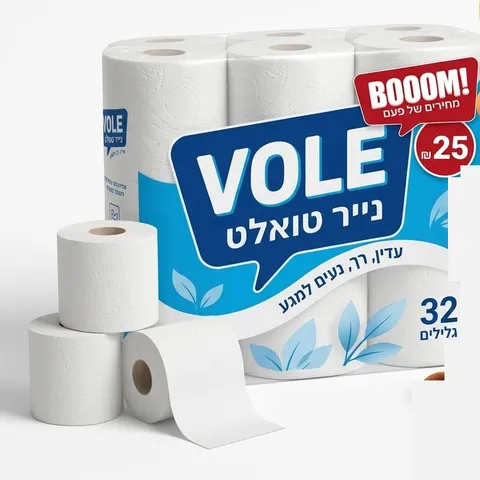
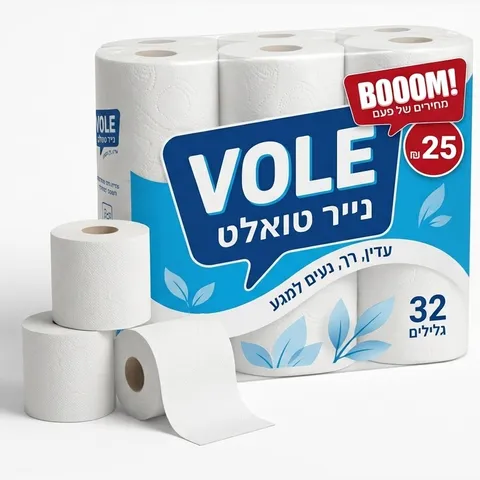
BOOOM : nouvelle photo du papier toilette Vole (sans Hoppy), produit ajouté en base
Claude-Session: https://claude.ai/code/session_01HjyNE8jb2CVL8HhFoocmFa

diff --git a/livraison/coursier.html b/livraison/coursier.html
@@ -53,9 +53,9 @@
       window.addEventListener("load", function () { if (first) later(); });
     })();
   </script>
-  <script src="coursier-lang.js?v=202611101517"></script>
+  <script src="coursier-lang.js?v=202611101633"></script>
   <link rel="stylesheet" href="https://cdnjs.cloudflare.com/ajax/libs/leaflet/1.9.4/leaflet.min.css" />
-  <link rel="stylesheet" href="styles.css?v=202611101517" />
+  <link rel="stylesheet" href="styles.css?v=202611101633" />
 <style id="splashCss">#splash{position:fixed;inset:0;z-index:99999;display:flex;flex-direction:column;align-items:center;justify-content:center;gap:18px;background:#0F1F3D;color:#fff;transition:opacity .35s ease}#splash.out{opacity:0;pointer-events:none}#splash svg{width:min(58vw,300px);height:auto;display:block}#splash span{font:700 16px/1 Rubik,-apple-system,Arial,sans-serif;letter-spacing:.42em;margin-inline-start:.42em;opacity:.92}</style>
 </head>
 <body>
@@ -297,14 +297,14 @@
 
 <script src="https://cdnjs.cloudflare.com/ajax/libs/leaflet/1.9.4/leaflet.min.js"></script>
 <script src="https://cdnjs.cloudflare.com/ajax/libs/qrcodejs/1.0.0/qrcode.min.js"></script>
-<script src="config.js?v=202611101517"></script>
-<script src="i18n.js?v=202611101517"></script>
-<script src="pricing.js?v=202611101517"></script>
-<script src="store.js?v=202611101517"></script>
-<script src="chat.js?v=202611101517"></script>
-<script src="common.js?v=202611101517"></script>
-<script src="badge.js?v=202611101517"></script>
-<script src="coursier.js?v=202611101517"></script>
+<script src="config.js?v=202611101633"></script>
+<script src="i18n.js?v=202611101633"></script>
+<script src="pricing.js?v=202611101633"></script>
+<script src="store.js?v=202611101633"></script>
+<script src="chat.js?v=202611101633"></script>
+<script src="common.js?v=202611101633"></script>
+<script src="badge.js?v=202611101633"></script>
+<script src="coursier.js?v=202611101633"></script>
 <script>(function(){var s=document.getElementById("splash");if(!s)return;var t0=Date.now();function off(){var w=Math.max(0,650-(Date.now()-t0));setTimeout(function(){s.classList.add("out");setTimeout(function(){s.remove()},400)},w)}if(document.readyState==="complete")off();else addEventListener("load",off);setTimeout(off,3500)})();</script>
 </body>
 </html>

diff --git a/livraison/admin.html b/livraison/admin.html
@@ -54,7 +54,7 @@
       window.addEventListener("load", function () { if (first) later(); });
     })();
   </script>
-  <link rel="stylesheet" href="styles.css?v=202611101517" />
+  <link rel="stylesheet" href="styles.css?v=202611101633" />
 <style id="splashCss">#splash{position:fixed;inset:0;z-index:99999;display:flex;flex-direction:column;align-items:center;justify-content:center;gap:18px;background:#0F1F3D;color:#fff;transition:opacity .35s ease}#splash.out{opacity:0;pointer-events:none}#splash svg{width:min(58vw,300px);height:auto;display:block}#splash span{font:700 16px/1 Rubik,-apple-system,Arial,sans-serif;letter-spacing:.42em;margin-inline-start:.42em;opacity:.92}</style>
 </head>
 <body>
@@ -189,15 +189,15 @@
 </div>
 
 <script src="https://cdnjs.cloudflare.com/ajax/libs/leaflet/1.9.4/leaflet.min.js"></script>
-<script src="config.js?v=202611101517"></script>
-<script src="i18n.js?v=202611101517"></script>
-<script src="pricing.js?v=202611101517"></script>
-<script src="store.js?v=202611101517"></script>
-<script src="chat.js?v=202611101517"></script>
-<script src="common.js?v=202611101517"></script>
-<script src="places.js?v=202611101517"></script>
-<script src="rayons.js?v=202611101517"></script>
-<script src="admin.js?v=202611101517"></script>
+<script src="config.js?v=202611101633"></script>
+<script src="i18n.js?v=202611101633"></script>
+<script src="pricing.js?v=202611101633"></script>
+<script src="store.js?v=202611101633"></script>
+<script src="chat.js?v=202611101633"></script>
+<script src="common.js?v=202611101633"></script>
+<script src="places.js?v=202611101633"></script>
+<script src="rayons.js?v=202611101633"></script>
+<script src="admin.js?v=202611101633"></script>
 <script>(function(){var s=document.getElementById("splash");if(!s)return;var t0=Date.now();function off(){var w=Math.max(0,650-(Date.now()-t0));setTimeout(function(){s.classList.add("out");setTimeout(function(){s.remove()},400)},w)}if(document.readyState==="complete")off();else addEventListener("load",off);setTimeout(off,3500)})();</script>
 </body>
 </html>

diff --git a/livraison/index.html b/livraison/index.html
@@ -96,7 +96,7 @@
       } catch (e) { /* ignore */ }
     })();
   </script>
-  <link rel="stylesheet" href="styles.css?v=202611101517" />
+  <link rel="stylesheet" href="styles.css?v=202611101633" />
 <style id="splashCss">#splash{position:fixed;inset:0;z-index:99999;display:flex;flex-direction:column;align-items:center;justify-content:center;gap:18px;background:#0F1F3D;color:#fff;transition:opacity .35s ease}#splash.out{opacity:0;pointer-events:none}#splash svg{width:min(58vw,300px);height:auto;display:block}#splash span{font:700 16px/1 Rubik,-apple-system,Arial,sans-serif;letter-spacing:.42em;margin-inline-start:.42em;opacity:.92}</style>
 </head>
 <body>
@@ -840,16 +840,16 @@
 </div>
 
 <script src="https://cdnjs.cloudflare.com/ajax/libs/leaflet/1.9.4/leaflet.min.js"></script>
-<script src="config.js?v=202611101517"></script>
-<script src="i18n.js?v=202611101517"></script>
-<script src="pricing.js?v=202611101517"></script>
-<script src="store.js?v=202611101517"></script>
-<script src="chat.js?v=202611101517"></script>
-<script src="common.js?v=202611101517"></script>
-<script src="enseignes.js?v=202611101517"></script>
-<script src="places.js?v=202611101517"></script>
-<script src="rayons.js?v=202611101517"></script>
-<script src="client.js?v=202611101517"></script>
+<script src="config.js?v=202611101633"></script>
+<script src="i18n.js?v=202611101633"></script>
+<script src="pricing.js?v=202611101633"></script>
+<script src="store.js?v=202611101633"></script>
+<script src="chat.js?v=202611101633"></script>
+<script src="common.js?v=202611101633"></script>
+<script src="enseignes.js?v=202611101633"></script>
+<script src="places.js?v=202611101633"></script>
+<script src="rayons.js?v=202611101633"></script>
+<script src="client.js?v=202611101633"></script>
 <script>(function(){var s=document.getElementById("splash");if(!s)return;var t0=Date.now();function off(){var w=0;setTimeout(function(){s.classList.add("out");setTimeout(function(){s.remove()},400)},w)}off()})();</script>
 </body>
 </html>

diff --git a/livraison/commerce.html b/livraison/commerce.html
@@ -73,7 +73,7 @@
       window.addEventListener("load", function () { if (first) later(); });
     })();
   </script>
-  <link rel="stylesheet" href="styles.css?v=202611101517" />
+  <link rel="stylesheet" href="styles.css?v=202611101633" />
 </head>
 <body>
 
@@ -190,13 +190,13 @@
 <button type="button" class="wa-fab chat-fab" id="waFab"><span>💬</span><b data-i18n="chatFab"></b><i class="chat-badge hidden" id="fabBadge"></i></button>
 
 <script src="https://cdnjs.cloudflare.com/ajax/libs/qrcodejs/1.0.0/qrcode.min.js"></script>
-<script src="config.js?v=202611101517"></script>
-<script src="i18n.js?v=202611101517"></script>
-<script src="pricing.js?v=202611101517"></script>
-<script src="store.js?v=202611101517"></script>
-<script src="chat.js?v=202611101517"></script>
-<script src="common.js?v=202611101517"></script>
-<script src="places.js?v=202611101517"></script>
-<script src="commerce.js?v=202611101517"></script>
+<script src="config.js?v=202611101633"></script>
+<script src="i18n.js?v=202611101633"></script>
+<script src="pricing.js?v=202611101633"></script>
+<script src="store.js?v=202611101633"></script>
+<script src="chat.js?v=202611101633"></script>
+<script src="common.js?v=202611101633"></script>
+<script src="places.js?v=202611101633"></script>
+<script src="commerce.js?v=202611101633"></script>
 </body>
 </html>

diff --git a/livraison/bienvenue.html b/livraison/bienvenue.html
@@ -15,7 +15,7 @@
   <link rel="preconnect" href="https://fonts.googleapis.com" />
   <link rel="preconnect" href="https://fonts.gstatic.com" crossorigin />
   <link href="https://fonts.googleapis.com/css2?family=Fredoka:wght@500;600;700&family=Rubik:wght@400;500;600;700;800&display=swap" rel="stylesheet" />
-  <link rel="stylesheet" href="styles.css?v=202611101517" />
+  <link rel="stylesheet" href="styles.css?v=202611101633" />
   <script>
     // Nouveau design (validé par le patron) : pour tout le monde ; ?design=1 garde l'ancien sur ce téléphone, ?design=2 revient au nouveau
     try { var dq = new URLSearchParams(location.search).get("design");
@@ -70,11 +70,11 @@
 
 <div class="ol-bar"><a class="btn btn-primary btn-lg" href="index.html" id="bvGo"></a></div>
 
-<script src="config.js?v=202611101517"></script>
-<script src="i18n.js?v=202611101517"></script>
-<script src="pricing.js?v=202611101517"></script>
-<script src="store.js?v=202611101517"></script>
-<script src="common.js?v=202611101517"></script>
+<script src="config.js?v=202611101633"></script>
+<script src="i18n.js?v=202611101633"></script>
+<script src="pricing.js?v=202611101633"></script>
+<script src="store.js?v=202611101633"></script>
+<script src="common.js?v=202611101633"></script>
 <script>
 (function () {
   "use strict";

diff --git a/livraison/suivi.html b/livraison/suivi.html
@@ -45,7 +45,7 @@
       window.addEventListener("load", function () { if (first) later(); });
     })();
   </script>
-  <link rel="stylesheet" href="styles.css?v=202611101517" />
+  <link rel="stylesheet" href="styles.css?v=202611101633" />
   <script>
     // Nouveau design (validé par le patron) : pour tout le monde ; ?design=1 garde l'ancien sur ce téléphone, ?design=2 revient au nouveau
     try { var dq = new URLSearchParams(location.search).get("design");
@@ -154,12 +154,12 @@
 </div>
 
 <script src="https://cdnjs.cloudflare.com/ajax/libs/leaflet/1.9.4/leaflet.min.js"></script>
-<script src="config.js?v=202611101517"></script>
-<script src="i18n.js?v=202611101517"></script>
-<script src="pricing.js?v=202611101517"></script>
-<script src="store.js?v=202611101517"></script>
-  <script src="chat.js?v=202611101517"></script>
-<script src="common.js?v=202611101517"></script>
-<script src="suivi.js?v=202611101517"></script>
+<script src="config.js?v=202611101633"></script>
+<script src="i18n.js?v=202611101633"></script>
+<script src="pricing.js?v=202611101633"></script>
+<script src="store.js?v=202611101633"></script>
+  <script src="chat.js?v=202611101633"></script>
+<script src="common.js?v=202611101633"></script>
+<script src="suivi.js?v=202611101633"></script>
 </body>
 </html>

diff --git a/livraison/badge.html b/livraison/badge.html
@@ -10,7 +10,7 @@
   <link rel="preconnect" href="https://fonts.googleapis.com" />
   <link rel="preconnect" href="https://fonts.gstatic.com" crossorigin />
   <link href="https://fonts.googleapis.com/css2?family=Fredoka:wght@500;600;700&family=Rubik:wght@400;500;600;700;800&display=swap" rel="stylesheet" />
-  <link rel="stylesheet" href="styles.css?v=202611101517" />
+  <link rel="stylesheet" href="styles.css?v=202611101633" />
   <style>
     body { background: #0F1F3D; color: #fff; min-height: 100vh; font-family: Rubik, sans-serif; }
     .bd-page { max-width: 460px; margin: 0 auto; padding: 32px 16px; text-align: center; }
@@ -26,7 +26,7 @@
     <p>Chaque livreur débloque un badge à 1, 10, 25, 50, 100, 250, 500 et 1 000 courses livrées. Il s'affiche une fois dans l'appli HOP! Livreur, puis reste dans « Statistiques ». Touchez une médaille pour la voir.</p>
     <div class="bdg-row" id="row"></div>
   </main>
-  <script src="badge.js?v=202611101517"></script>
+  <script src="badge.js?v=202611101633"></script>
   <script>
     const row = document.getElementById("row");
     row.innerHTML = Badge.MILESTONES.map(m => `<button type="button" data-n="${m.n}">${Badge.medal(m.n)}<span>${m.tier}</span></button>`).join("");

diff --git a/livraison/on-livre.html b/livraison/on-livre.html
@@ -13,7 +13,7 @@
   <link rel="preconnect" href="https://fonts.googleapis.com" />
   <link rel="preconnect" href="https://fonts.gstatic.com" crossorigin />
   <link href="https://fonts.googleapis.com/css2?family=Fredoka:wght@500;600;700&family=Rubik:wght@400;500;600;700;800&display=swap" rel="stylesheet" />
-  <link rel="stylesheet" href="styles.css?v=202611101517" />
+  <link rel="stylesheet" href="styles.css?v=202611101633" />
   <script>
     // Nouveau design (validé par le patron) : pour tout le monde ; ?design=1 garde l'ancien sur ce téléphone, ?design=2 revient au nouveau
     try { var dq = new URLSearchParams(location.search).get("design");
@@ -61,10 +61,10 @@
 
 <div class="ol-bar"><a class="btn btn-primary btn-lg" href="index.html" id="olGo"></a></div>
 
-<script src="config.js?v=202611101517"></script>
-<script src="i18n.js?v=202611101517"></script>
-<script src="pricing.js?v=202611101517"></script>
-<script src="common.js?v=202611101517"></script>
+<script src="config.js?v=202611101633"></script>
+<script src="i18n.js?v=202611101633"></script>
+<script src="pricing.js?v=202611101633"></script>
+<script src="common.js?v=202611101633"></script>
 <script>
 (function () {
   "use strict";

diff --git a/livraison/kit.html b/livraison/kit.html
@@ -12,7 +12,7 @@
   <link rel="preconnect" href="https://fonts.googleapis.com" />
   <link rel="preconnect" href="https://fonts.gstatic.com" crossorigin />
   <link href="https://fonts.googleapis.com/css2?family=Fredoka:wght@500;600;700&family=Rubik:wght@400;500;600;700;800&display=swap" rel="stylesheet" />
-  <link rel="stylesheet" href="styles.css?v=202611101517" />
+  <link rel="stylesheet" href="styles.css?v=202611101633" />
 </head>
 <body class="kit-page">
 
@@ -177,10 +177,10 @@
 </div>
 
 <script src="https://cdnjs.cloudflare.com/ajax/libs/qrcodejs/1.0.0/qrcode.min.js"></script>
-<script src="config.js?v=202611101517"></script>
-<script src="i18n.js?v=202611101517"></script>
-<script src="pricing.js?v=202611101517"></script>
-<script src="common.js?v=202611101517"></script>
-<script src="kit.js?v=202611101517"></script>
+<script src="config.js?v=202611101633"></script>
+<script src="i18n.js?v=202611101633"></script>
+<script src="pricing.js?v=202611101633"></script>
+<script src="common.js?v=202611101633"></script>
+<script src="kit.js?v=202611101633"></script>
 </body>
 </html>

diff --git a/livraison/recu.html b/livraison/recu.html
@@ -43,7 +43,7 @@
       window.addEventListener("load", function () { if (first) later(); });
     })();
   </script>
-  <link rel="stylesheet" href="styles.css?v=202611101517" />
+  <link rel="stylesheet" href="styles.css?v=202611101633" />
 </head>
 <body class="receipt-page">
   <main class="wrap narrow" style="padding:20px 16px 40px">
@@ -53,11 +53,11 @@
       <a class="btn" href="index.html#mes-courses">← Retour · חזרה</a>
     </div>
   </main>
-  <script src="config.js?v=202611101517"></script>
-  <script src="i18n.js?v=202611101517"></script>
-  <script src="pricing.js?v=202611101517"></script>
-  <script src="store.js?v=202611101517"></script>
-  <script src="common.js?v=202611101517"></script>
-  <script src="recu.js?v=202611101517"></script>
+  <script src="config.js?v=202611101633"></script>
+  <script src="i18n.js?v=202611101633"></script>
+  <script src="pricing.js?v=202611101633"></script>
+  <script src="store.js?v=202611101633"></script>
+  <script src="common.js?v=202611101633"></script>
+  <script src="recu.js?v=202611101633"></script>
 </body>
 </html>

diff --git a/livraison/autocollant.html b/livraison/autocollant.html
@@ -89,7 +89,7 @@
 </div></div>
 
 <script src="https://cdnjs.cloudflare.com/ajax/libs/qrcodejs/1.0.0/qrcode.min.js"></script>
-<script src="config.js?v=202611101517"></script>
+<script src="config.js?v=202611101633"></script>
 <script>
 (function () {
   "use strict";
